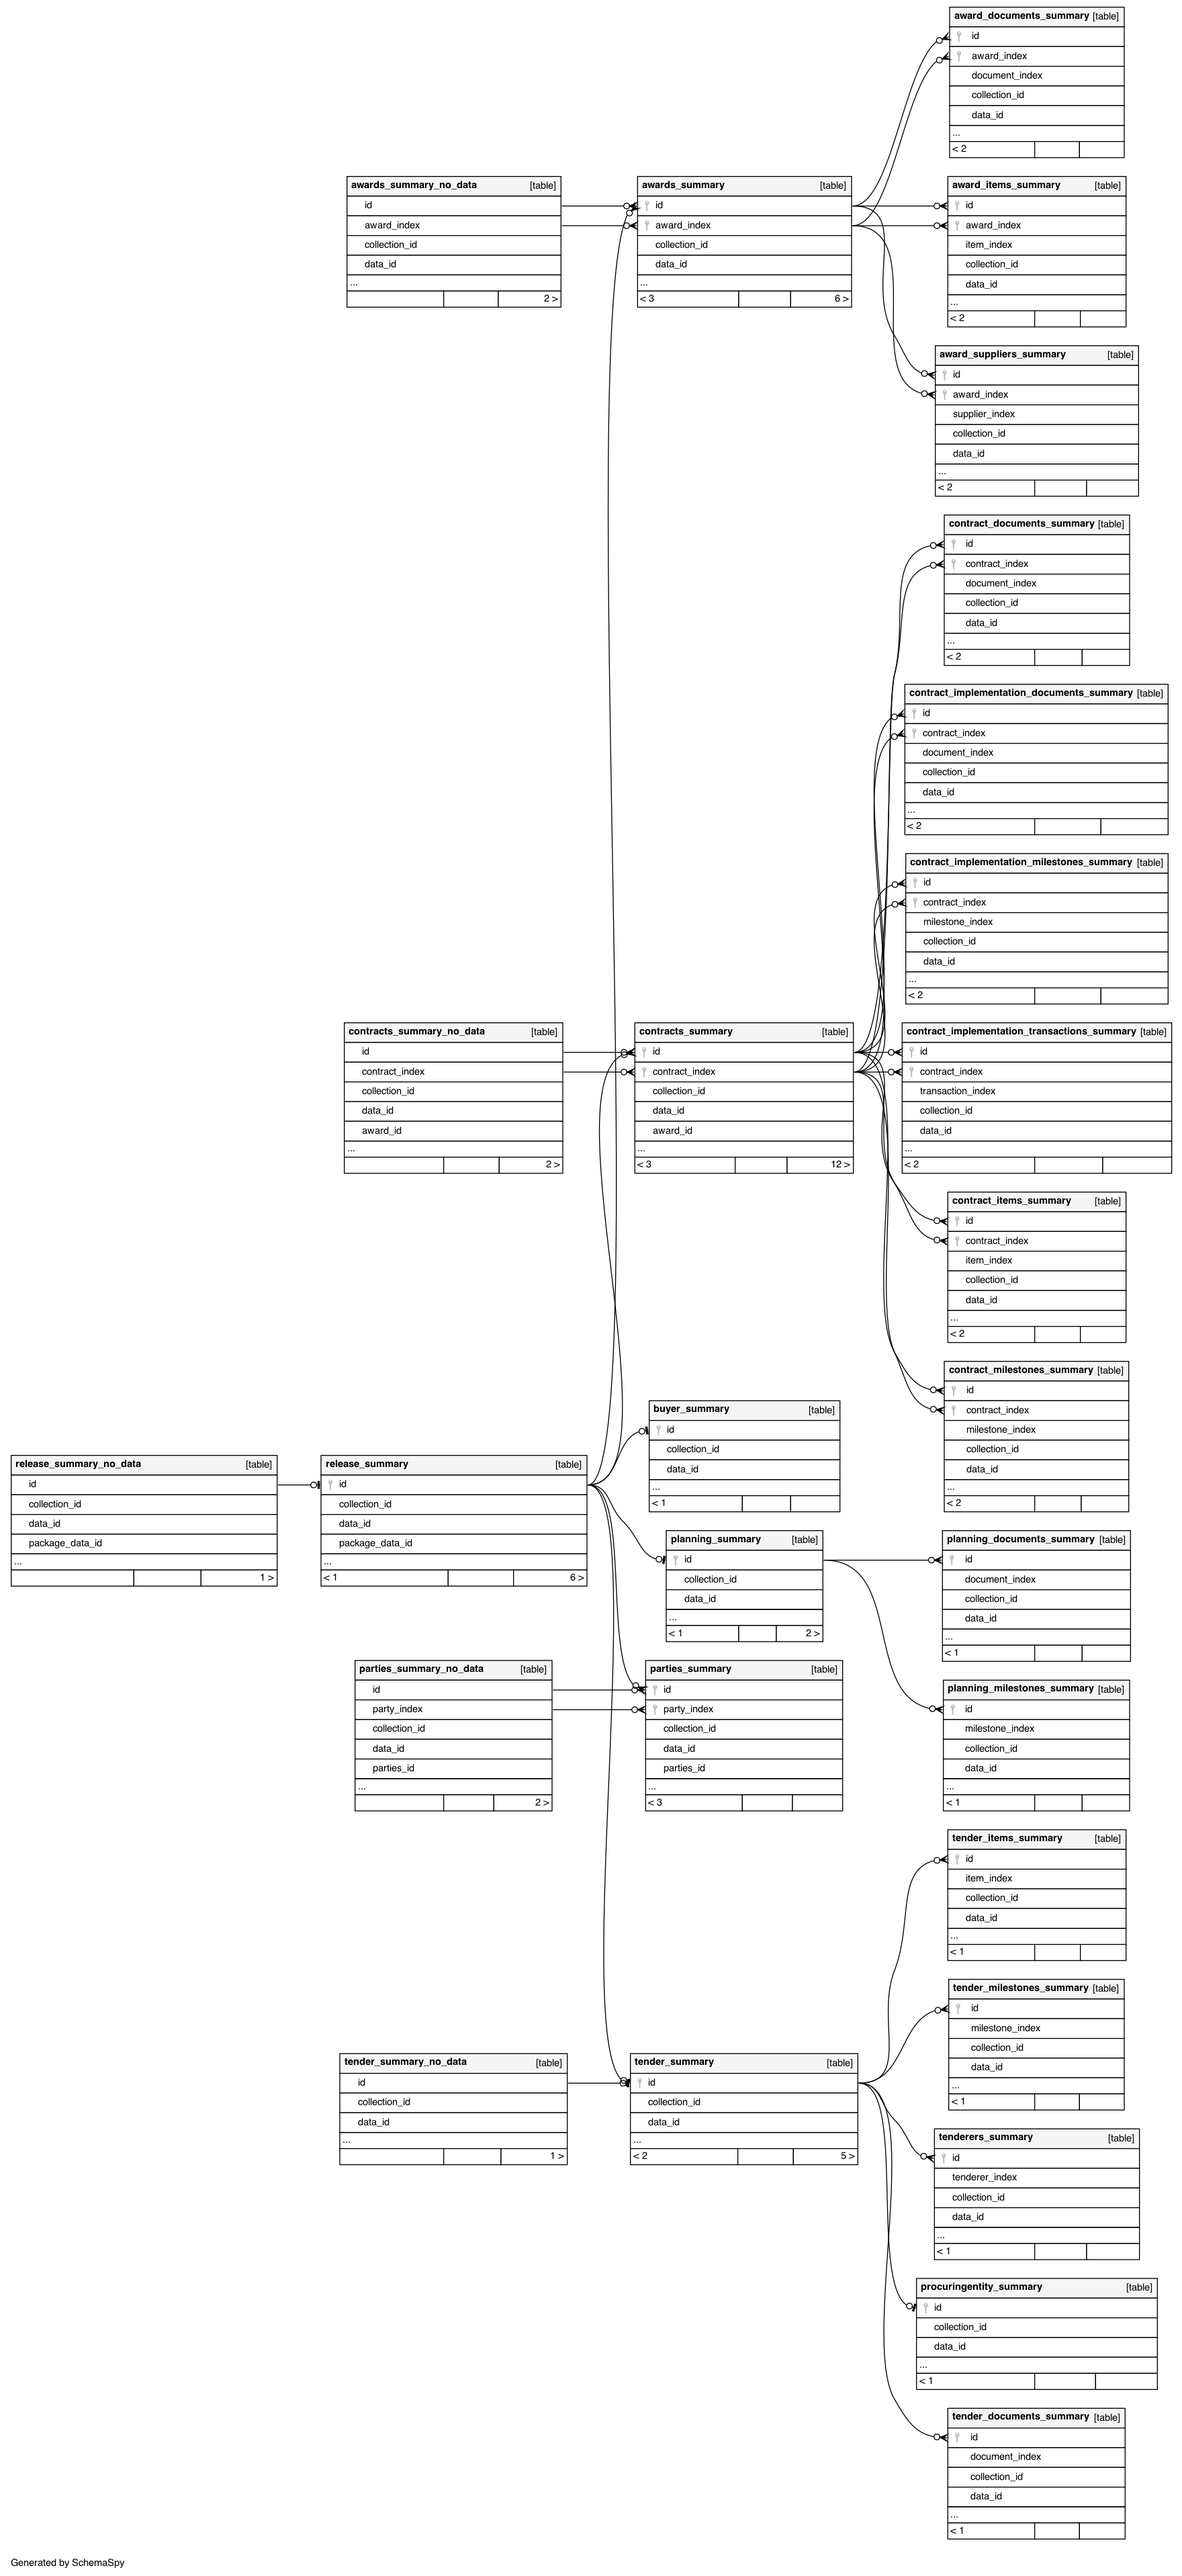
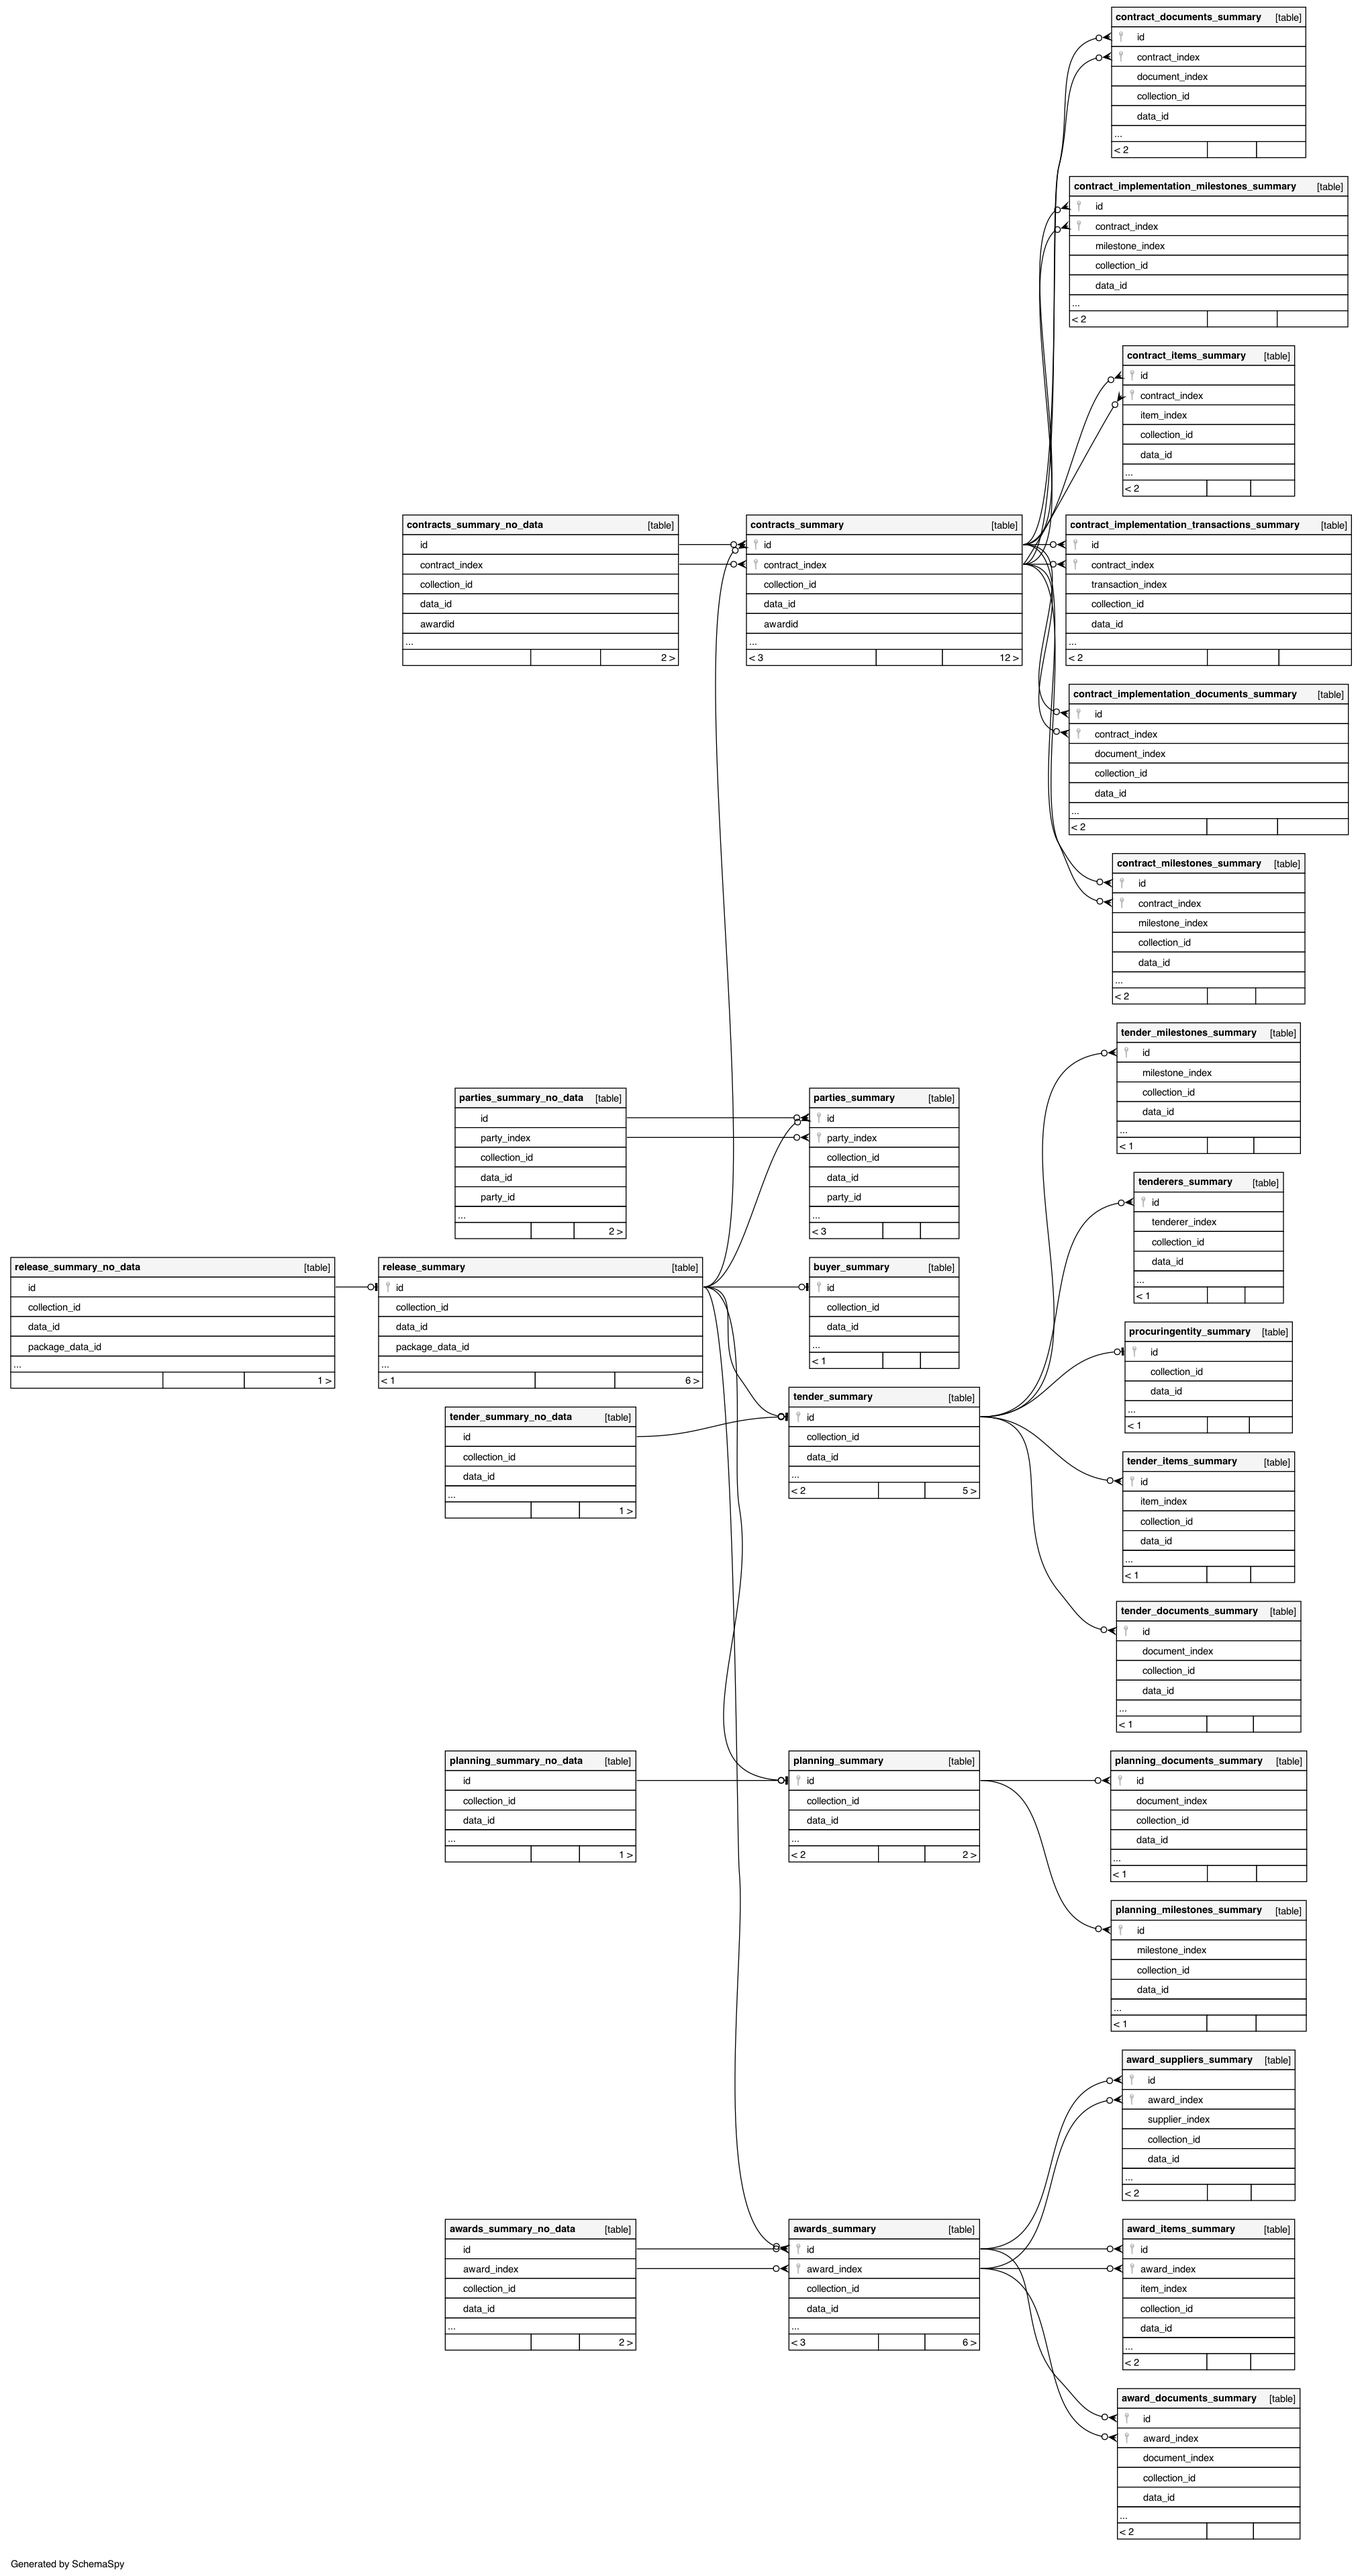
docs: Regenerate the ERD (no changes)

diff --git a/docs/database.rst b/docs/database.rst
@@ -40,8 +40,8 @@ If the ``release_type`` is "record", then the record's ``compiledRelease`` field
 
 Foreign key relationships exist on all `tables <https://www.postgresql.org/docs/current/sql-createtable.html>`__ (but not `views <https://www.postgresql.org/docs/current/sql-createview.html>`__) within a schema, as shown in the Entity Relationship Diagram (click on the image and zoom in to read more easily).
 
-.. image:: _static/erd.png
-   :target: _static/erd.png
+.. image:: _static/relationships.real.compact.png
+   :target: _static/relationships.real.compact.png
 
 This diagram can help to identify JOIN conditions. For example, all tables can be joined with the ``release_summary_no_data`` and ``release_summary`` tables on the ``id`` column.
 

diff --git a/docs/develop/howtos.rst b/docs/develop/howtos.rst
@@ -66,4 +66,9 @@ Add a schema with the ``--tables-only`` option:
 
     ./manage.py add 123 diagram --tables-only
 
-`Use SchemaSpy <https://ocp-software-handbook.readthedocs.io/en/latest/services/postgresql.html#entity-relationship-diagram>`__ to generate a diagram, copying the output to ``docs/_static/erd.png``.
+Then, `update <https://ocp-software-handbook.readthedocs.io/en/latest/services/postgresql.html#generate-entity-relationship-diagram>`__ the :ref:`erd`. For example:
+
+.. code-block:: bash
+
+   java -jar schemaspy.jar -t pgsql -dp postgresql.jar -o schemaspy -norows -host localhost -db kingfisher_summarize -s summary_collection_1 -u MYUSER
+   mv schemaspy/diagrams/summary/relationships.real.compact.png docs/_static/
